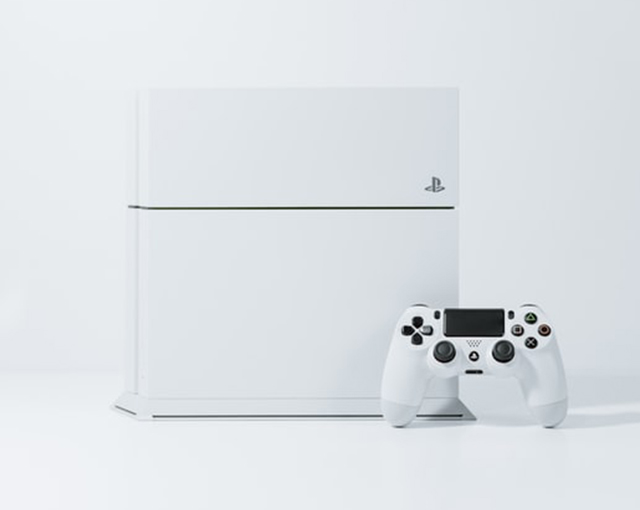
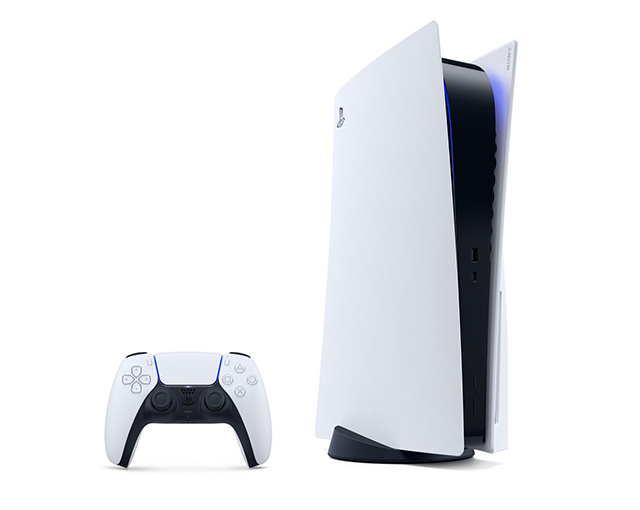
Fetch products from the backend

diff --git a/frontend/src/screens/ProductScreen.jsx b/frontend/src/screens/ProductScreen.jsx
@@ -1,12 +1,22 @@
+import { useState, useEffect } from 'react';
 import { useParams } from 'react-router-dom';
 import { Link } from 'react-router-dom';
 import { Row, Col, Image, ListGroup, Card, Button } from 'react-bootstrap';
 import Rating from '../components/Rating';
-import products from '../products';
+import axios from 'axios';
 
 const ProductScreen = () => {
   const { id: productId } = useParams();
-  const product = products.find((p) => p._id === productId);
+  const [product, setProduct] = useState({});
+
+  useEffect(() => {
+    const fetchProduct = async () => {
+      const { data } = await axios.get(`/api/products/${productId}`);
+      setProduct(data);
+    };
+
+    fetchProduct();
+  }, [productId]);
 
   return (
     <>

diff --git a/backend/data/products.js b/backend/data/products.js
@@ -14,10 +14,10 @@ const products = [
   },
   {
     _id: '2',
-    name: 'iPhone 11 Pro 256GB Memory',
+    name: 'iPhone 13 Pro 256GB Memory',
     image: '/images/phone.jpg',
     description:
-      'Introducing the iPhone 11 Pro. A transformative triple-camera system that adds tons of capability without complexity. An unprecedented leap in battery life',
+      'Introducing the iPhone 13 Pro. A transformative triple-camera system that adds tons of capability without complexity. An unprecedented leap in battery life',
     brand: 'Apple',
     category: 'Electronics',
     price: 599.99,
@@ -40,7 +40,7 @@ const products = [
   },
   {
     _id: '4',
-    name: 'Sony Playstation 4 Pro White Version',
+    name: 'Sony Playstation 5',
     image: '/images/playstation.jpg',
     description:
       'The ultimate home entertainment center starts with PlayStation. Whether you are into gaming, HD movies, television, music',
@@ -77,6 +77,6 @@ const products = [
     rating: 4,
     numReviews: 12,
   },
-]
+];
 
-export default products
+export default products;